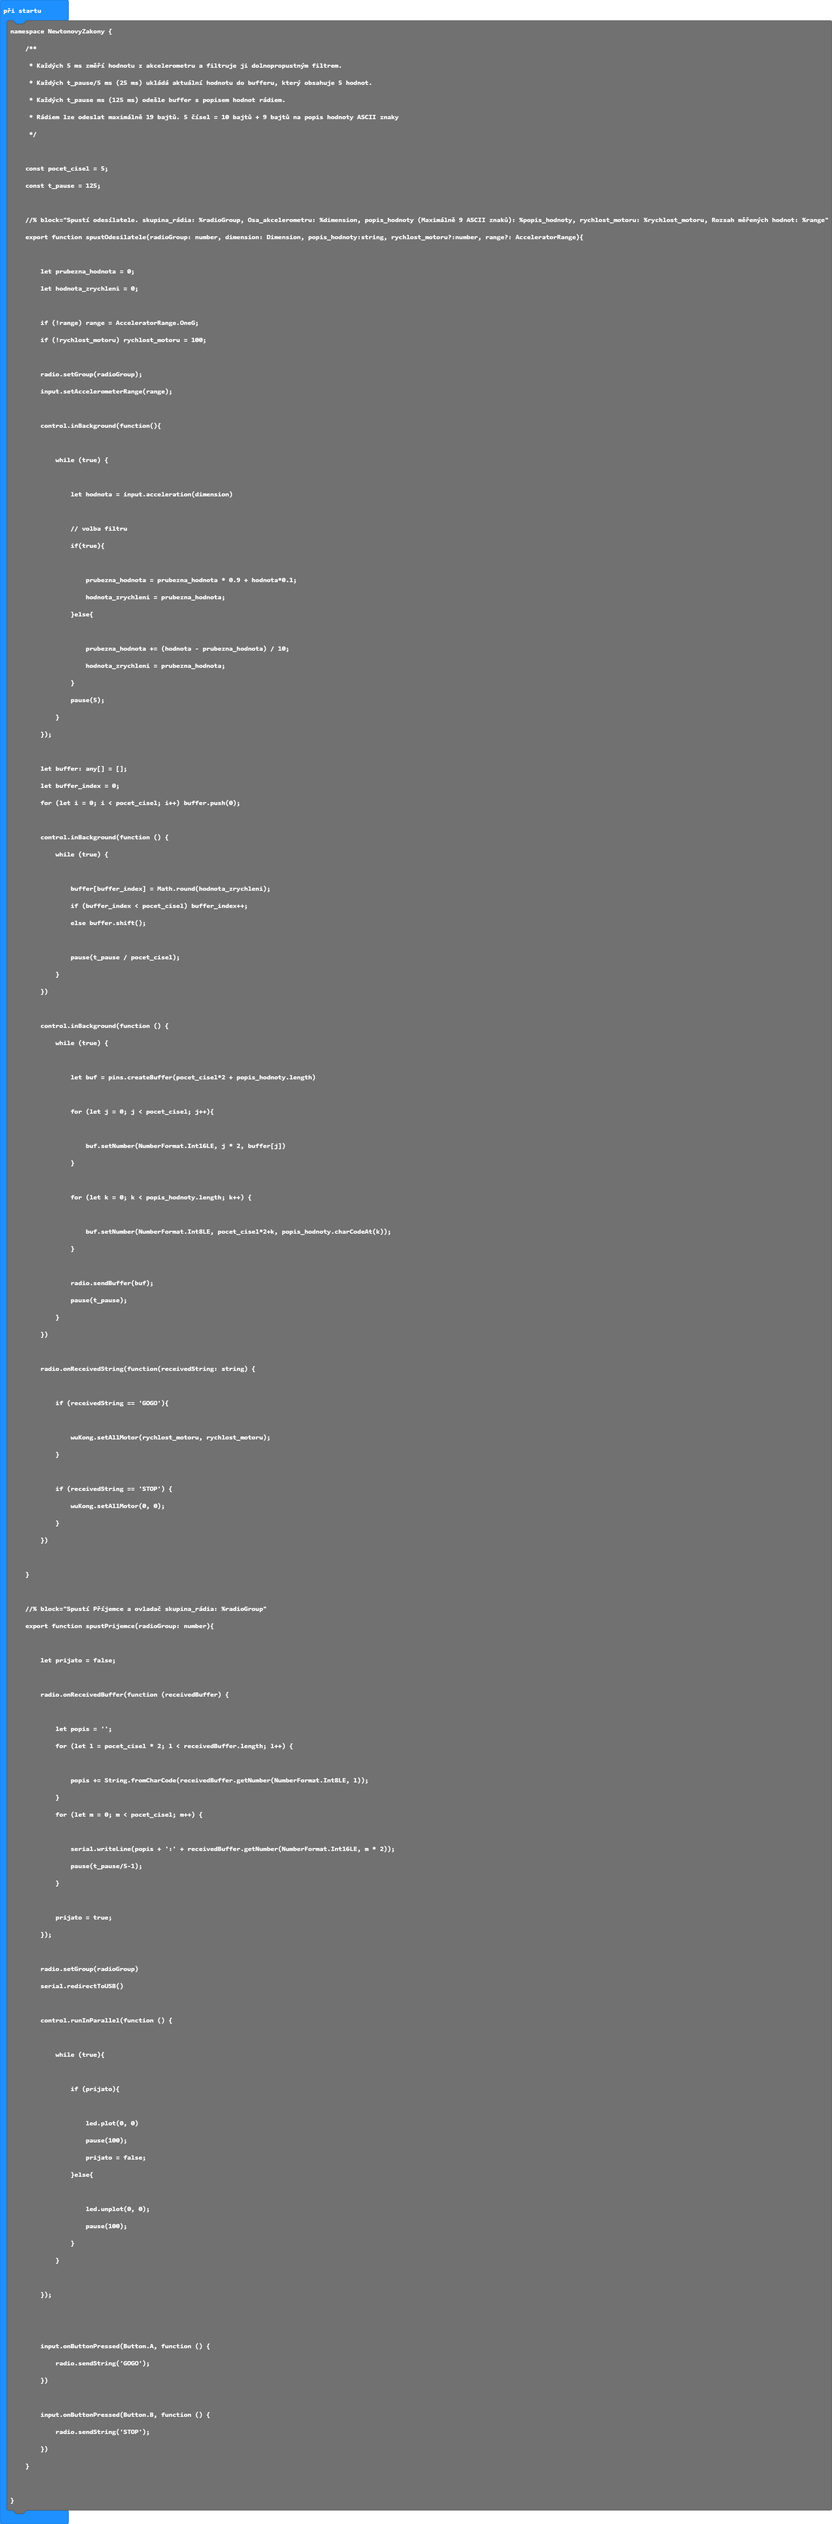
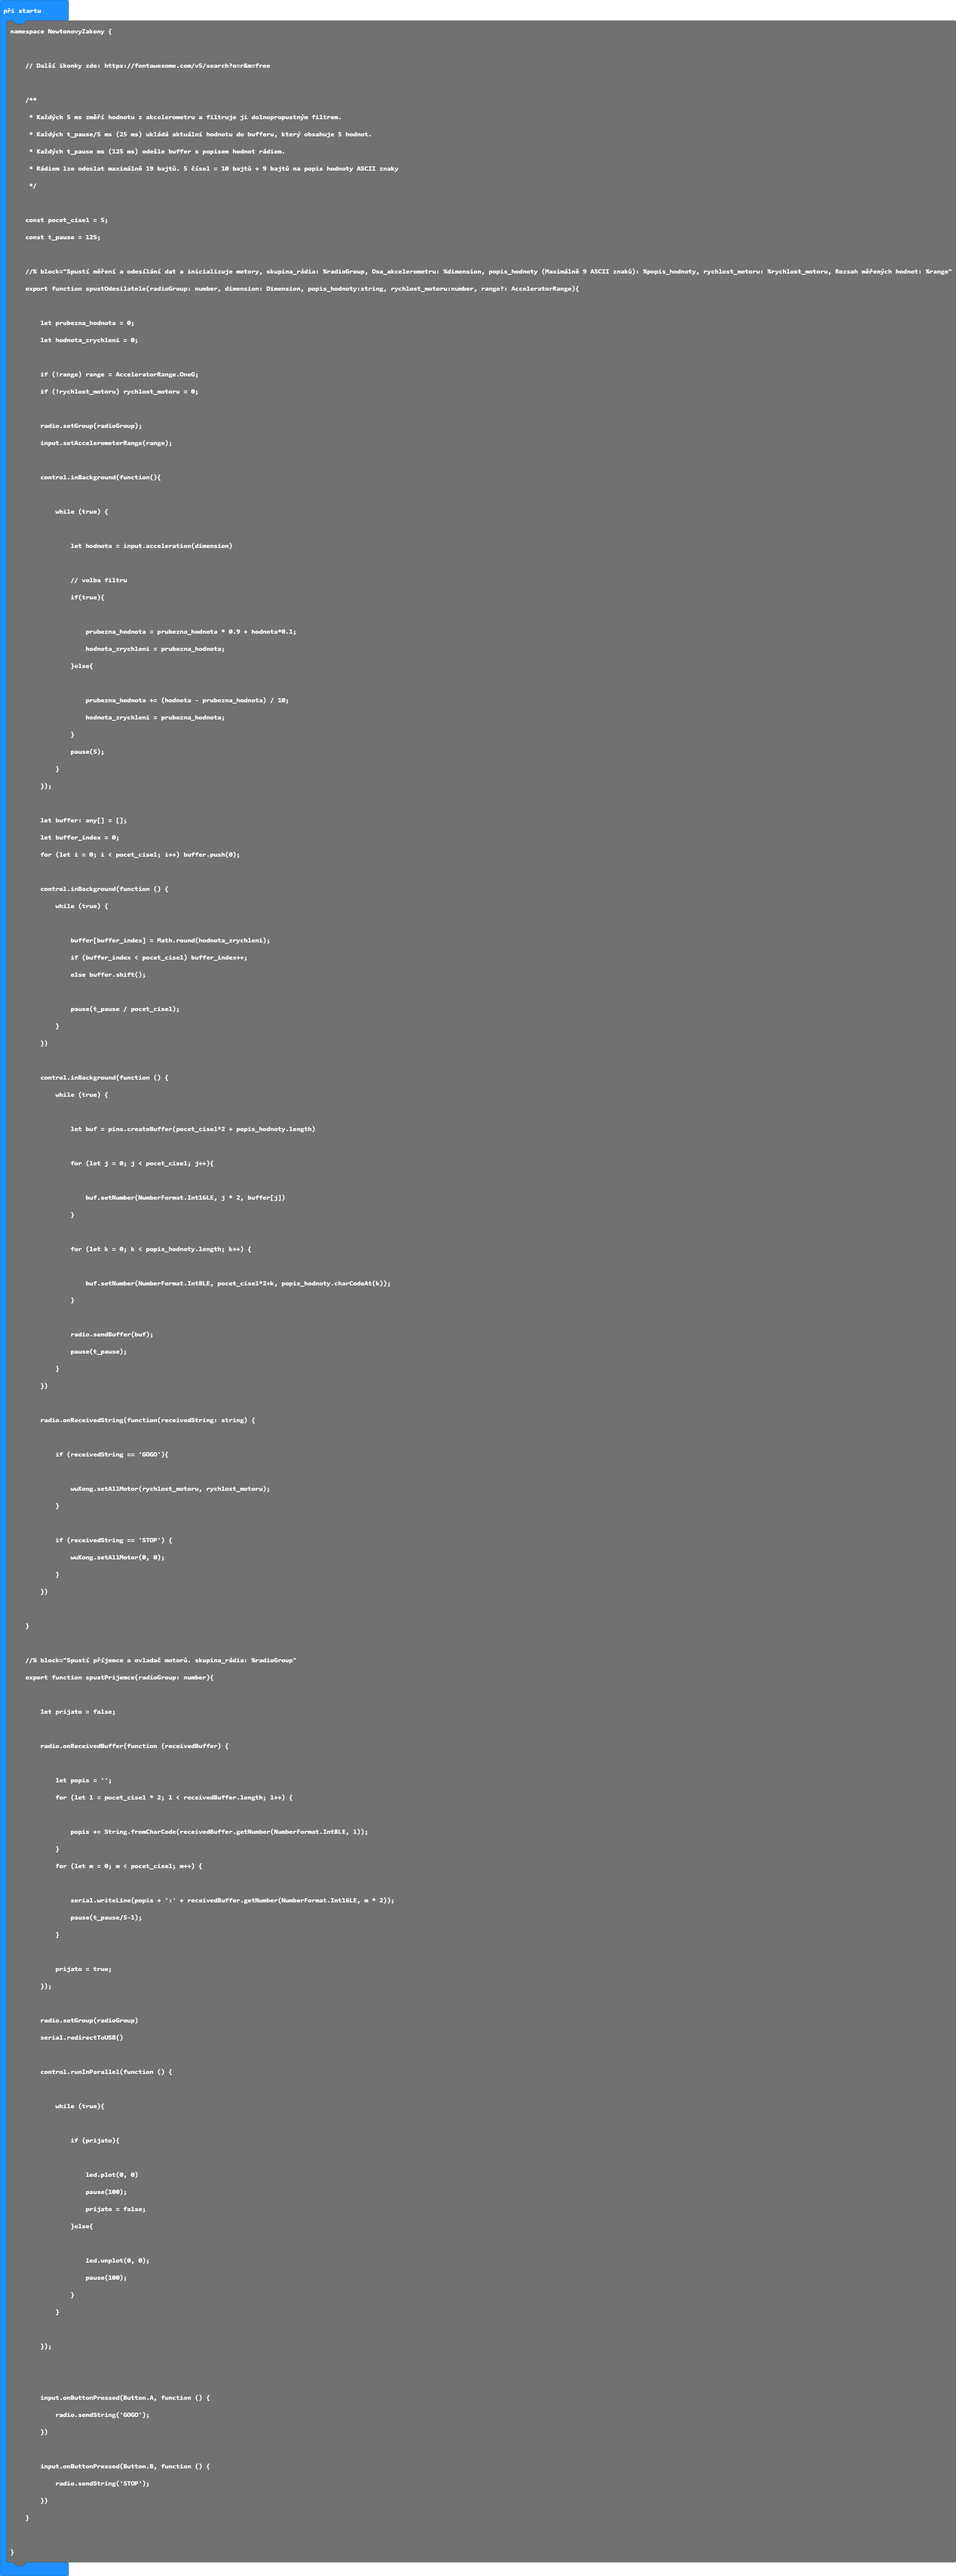
Aktualizovat main.blocks, main.ts

diff --git a/main.ts b/main.ts
@@ -1,4 +1,3 @@
-//% color=#0fbc11 icon="\uf0ac" block="Newtonovy zákony"
 namespace NewtonovyZakony {
 
     // Další ikonky zde: https://fontawesome.com/v5/search?o=r&m=free
@@ -109,7 +108,7 @@ namespace NewtonovyZakony {
             for (let m = 0; m < pocet_cisel; m++) {
 
                 serial.writeLine(popis + ':' + receivedBuffer.getNumber(NumberFormat.Int16LE, m * 2));
-                pause(t_pause/5-1);
+                pause(t_pause/10-1);
             }
 
             prijato = true;
